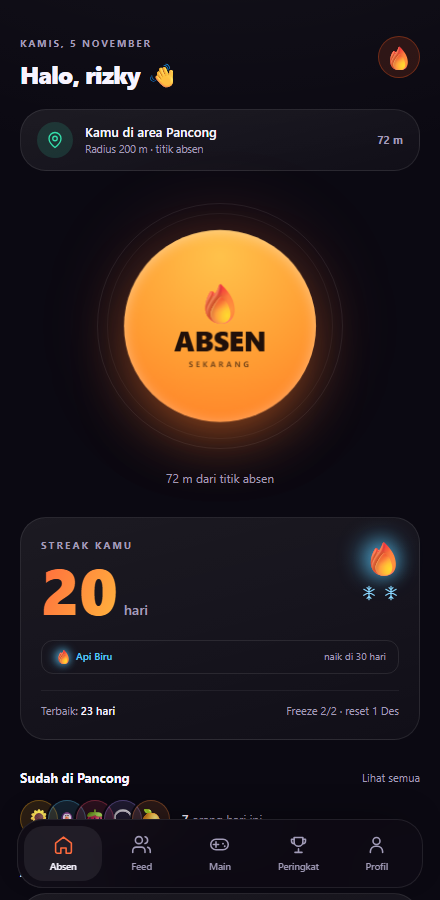
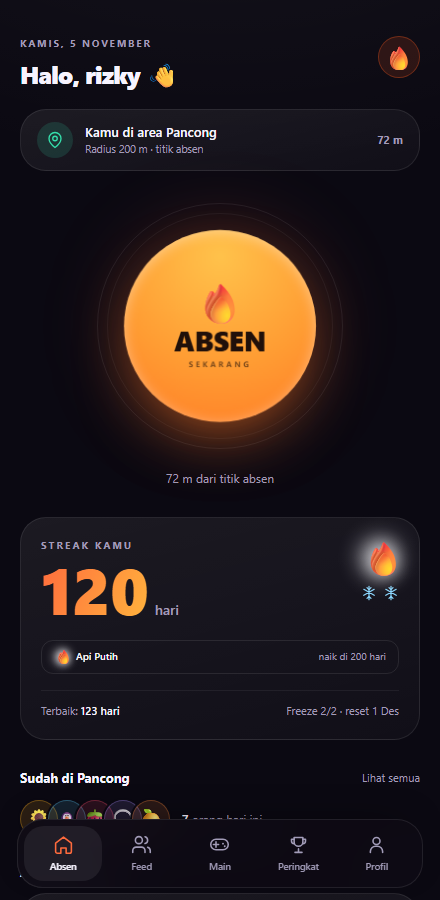
Sesuaikan Tingkatan Api

diff --git a/lib/flame.ts b/lib/flame.ts
@@ -8,12 +8,14 @@ export type FlameTier = {
 /** Tingkatan api berdasarkan streak harian. */
 export const FLAME_TIERS: FlameTier[] = [
   { min: 0, name: "Api Kecil", color: "#8A8A93", glow: "rgba(138,138,147,0.30)" },
-  { min: 3, name: "Api Menyala", color: "#FFB43D", glow: "rgba(255,180,61,0.50)" },
-  { min: 7, name: "Api Panas", color: "#FF6B3D", glow: "rgba(255,107,61,0.55)" },
-  { min: 14, name: "Api Biru", color: "#5AC8FA", glow: "rgba(90,200,250,0.55)" },
-  { min: 30, name: "Api Ungu", color: "#A78BFA", glow: "rgba(167,139,250,0.55)" },
-  { min: 60, name: "Api Putih", color: "#F5F5F7", glow: "rgba(245,245,247,0.65)" },
-  { min: 100, name: "Api Dewa", color: "#FFD166", glow: "rgba(255,209,102,0.75)" },
+  { min: 10, name: "Api Menyala", color: "#FFB43D", glow: "rgba(255,180,61,0.50)" },
+  { min: 30, name: "Api Panas", color: "#FF6B3D", glow: "rgba(255,107,61,0.55)" },
+  { min: 50, name: "Api Biru", color: "#5AC8FA", glow: "rgba(90,200,250,0.55)" },
+  { min: 70, name: "Api Ungu", color: "#A78BFA", glow: "rgba(167,139,250,0.55)" },
+  { min: 100, name: "Api Putih", color: "#F5F5F7", glow: "rgba(245,245,247,0.65)" },
+  { min: 200, name: "Api Emas", color: "#FFD166", glow: "rgba(255,209,102,0.7)" },
+  { min: 300, name: "Api Zamrud", color: "#34D399", glow: "rgba(52,211,153,0.7)" },
+  { min: 500, name: "Api Dewa", color: "#FF2D55", glow: "rgba(255,45,85,0.8)" },
 ];
 
 export function flameTier(streak: number): FlameTier {

diff --git a/README.md b/README.md
@@ -74,6 +74,20 @@ Kamu akan melihat kartu konfeti, angka streak baru, dan contoh notifikasi yang d
 
 Streak bertambah kalau kamu absen di hari berturut-turut. Kalau bolong sehari, kamu punya **2 freeze per bulan** yang otomatis menyelamatkan streak. Freeze kembali penuh setiap tanggal 1.
 
+Tingkatan api mengikuti streak:
+
+| Streak | Tingkatan |
+|---|---|
+| 0 | Api Kecil |
+| 10 | Api Menyala |
+| 30 | Api Panas |
+| 50 | Api Biru |
+| 70 | Api Ungu |
+| 100 | Api Putih |
+| 200 | Api Emas |
+| 300 | Api Zamrud |
+| 500 | Api Dewa |
+
 ---
 
 ## Di dalam aplikasi
